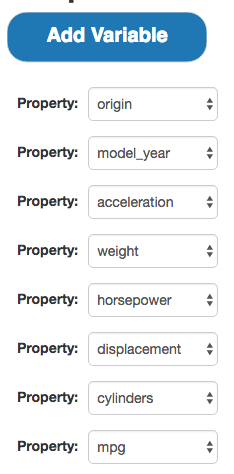
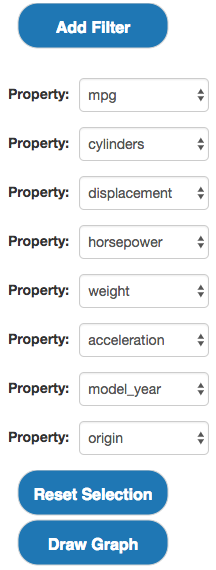
ADD reset selection button to Correolgram JS template

diff --git a/Correlogram/D3 _Correlogram_template_JS.html b/Correlogram/D3 _Correlogram_template_JS.html
@@ -98,16 +98,26 @@ body, html { overflow: scroll; height: 100% }
           	<h2>Introduction</h2>
           	<p>This section provides a manual for the Correlogram visualization. It explains the meaning of the inputs, the correct specification of the input data table and known issues.</p>
           	<h2>Inputs</h2>
-          	<img src="https://github.com/pcooman/d3_tools/blob/master/Correlogram/Correlogram_Toolbar_empty.png?raw=true">
-    		 <ul>
+           <img src="https://github.com/pcooman/d3_tools/blob/master/Correlogram/Correlogram_MEtatoolbar_empty_JS.png?raw=true">
+            <ul>
+              <li><b>Source Database:</b> A dropdown menu to select the database or cluster of the table we want ot visualize (e.g., redshift-general). Once you make a secltion here, the <i>Source Schema</i> dropdown menu will be populated with all schemas within the selected database.</li>
+              <li><b>Source Schema:</b> A dropdown menu to select the schema that contains the table to visualize. Again, making a selection here initiates a script to populate the <i>Source Table</i> dropdown menu with all tables within the selected schema.</li>
+              <li><b>Source Table:</b> A dropdown menu to select the name of the table to visualize.</li>
+              <li><b>Get Table:</b> Once the source database, schema and table have been selected, click this button to retrieve the column names of the selected table.</li>
+            </ul>
+           <p>A short time after clicking the <i>Get Table</i> button a second set of buttons should appear:</p>
+          	<img src="https://github.com/pcooman/d3_tools/blob/master/Correlogram/Correlogram_Toolbar_start_JS.png?raw=true">
+            <p>Clicking the 'Add Variable' button will create additional 'Property' menus.</p>    		 
+            <img src="https://github.com/pcooman/d3_tools/blob/master/Correlogram/Correlogram_Toolbar_empty_JS.png?raw=true">
+            <ul>
               <li><b>Add Variable:</b> A button to generate additional Property dropdown forms.</li>
-              <li><b>Property:</b> A dropdown menu to select the variable to include in the plot.</li>
+              <li><b>Property:</b> A drop down menu to select the column of the data set you would like to include in the pairwise correlation calculations.</li>
+              <li><b>Draw Graph:</b> When you have selected the properties for which you want to plot the Correlogram, click this button to retrieve the necessary data and to start drawing the graph.</li>
             </ul>
           	<h2>Data table</h2>
-          	<p>The template calculates the Pearson correlation coefficient for all pairwise combinations of the selected variables. The values in the selected columns need to be numerical. In the following table, each column can be selected and potted, with exception of the last colum <i>car_name</i> because it is a categorical variable:<p>
+          	<p>The template calculates the Pearson correlation coefficient for all pairwise combinations of the selected variables. The values in the selected columns need to be numerical. In the following table, each column can be selected and plotted, with exception of the last colum <i>car_name</i> because it is a categorical variable:<p>
           	<img src="https://github.com/pcooman/d3_tools/blob/master/Correlogram/Correlogram_Table.png?raw=true">
           	<p>The graph will plot a matrix with the column names on the diagonal, the correlation coefficient in the lower left triangle and filled circles in the upper right triangle. The color and size of the circles depends on the correlation coefficient. Negative correlation coefficients are displayed as red circles and positive correlation coefficients are displayed as blue circles. The higher the absolute value of the correlation coefficient, the deeper the color intensity and radius of the circle.</p>
-          	<p>The <i>Add Variable</i> button allows you to gradually build up the correlogram. A variable can be "removed" from the plot by changing that variable to one that is already plotted.</p>
            <h2>Known issues</h2>
           	<p>Move the labels from the diagonal to the left and top of the plot. When many variables need to be plotted, this would prevent the labels from bleeding over into the adjacent cells.</p>
             <bcontent></bcontent>
@@ -116,21 +126,15 @@ body, html { overflow: scroll; height: 100% }
       	<div class="tab-pane" id="c_tab">
             <h1>Example</h1>
           	<h2>Introduction</h2>
-          	<p>Here we show an example of a typical use case and what the resulting plot should look like. In this example we will plot the cars data set. The data can be found either on Platform (schema.table = <i>pcooman.cars</i> on redshift-general) or here: <i>https://archive.ics.uci.edu/ml/datasets/Auto+MPG</i>. Platform does not support outgoing links, so you will need to manually copy and paste the url.</p>
+          	<p>Here we show an example of a typical use case and what the resulting plot should look like. In this example we will plot the Correlogram of the cars data set. The data can be found either on Platform (schema.table = <i>pcooman.cars</i> on redshift-general) or here: <i>https://archive.ics.uci.edu/ml/datasets/Auto+MPG</i>. Platform does not support outgoing links, so you will need to manually copy and paste the url.</p>
             <h2>Data table</h2>
+           <img src="https://github.com/pcooman/d3_tools/blob/master/Correlogram/Correlogram_Metatoolbar_full_JS.png?raw=true">
           	<img src="https://github.com/pcooman/d3_tools/blob/master/Correlogram/Correlogram_Table.png?raw=true">
           	<h2>Sample plot</h2>
-          	<p>We start by clicking the <i>Add Variable</i> button multiple times and filling in the variables we want to include int he plot:</p>
-            <img src="https://github.com/pcooman/d3_tools/blob/master/Correlogram/Correlogram_Toolbar_allbutone.png?raw=true">
-           <p>This should generate a correlogram that looks like this:</p>
-            <img src="https://github.com/pcooman/d3_tools/blob/master/Correlogram/Correlogram_allbutone.png?raw=true">
-           <p>Clicking the <i>Add Variable</i> again, creates a new dropdown menu at the top of the list:</p>
-            <img src="https://github.com/pcooman/d3_tools/blob/master/Correlogram/Correlgram_Toolbar_lastempty.png?raw=true">
-           <p>Creating this new dropdown menu, but leaving it empty for now, will create placeholder cells in the correlogram:</p>
-            <img src="https://github.com/pcooman/d3_tools/blob/master/Correlogram/Correlogram_lastempty.png?raw=true">
-           <p>Once we choose a variable from the newly created dropdown menu, the empty correlogram cells will be filled in:</p>
-            <img src="https://github.com/pcooman/d3_tools/blob/master/Correlogram/Correlogram_Toolbar_full.png?raw=true">
-            <img src="https://github.com/pcooman/d3_tools/blob/master/Correlogram/Correlogram_full.png?raw=true">
+          	<p>We start by clicking the <i>Add Variable</i> button 8 times and filling in the variables we want to include in the plot:</p>
+            <img src="https://github.com/pcooman/d3_tools/blob/master/Correlogram/Correlogram_Toolbar_full_JS.png?raw=true">
+           <p>Clicking the 'Draw Graph' button should generate a correlogram that looks like this:</p>
+            <img src="https://github.com/pcooman/d3_tools/blob/master/Correlogram/Correlogram_Example_JS.png?raw=true">
           	 <ccontent></ccontent>
         </div>
       
@@ -501,11 +505,14 @@ var createMetaToolbar = function(client, def_vis_width, def_vis_height, params) 
         d3.selectAll("label.label_toolbar").remove()
         for (var i=0; i<params['count']+1; i++) {d3.select("#x-var"+i).html("");}
         for (var i=0; i<params['count']+1; i++) {d3.select("#x-var"+i).remove();}
+        for (var i=0; i<params['count']+1; i++) {d3.select("#toolbar"+i).remove();}
         for (var i=0; i<params['count']+1; i++) {delete params['xaxis'+i];}
 
         d3.selectAll(".toolbar_rect").remove()
         d3.selectAll(".toolbar_text").remove()
         d3.selectAll(".toolbar_label").remove()
+        d3.select("#first_toolbar").html("") 
+        d3.select("#last_toolbar").html("")  
 
         d3.selectAll('.cor_text').remove()
         d3.selectAll('.cor').remove()
@@ -527,11 +534,15 @@ var createMetaToolbar = function(client, def_vis_width, def_vis_height, params) 
         d3.selectAll("label.label_toolbar").remove()
         for (var i=0; i<params['count']+1; i++) {d3.select("#x-var"+i).html("");}
         for (var i=0; i<params['count']+1; i++) {d3.select("#x-var"+i).remove();}
+        for (var i=0; i<params['count']+1; i++) {d3.select("#toolbar"+i).remove();}
         for (var i=0; i<params['count']+1; i++) {delete params['xaxis'+i];}
+
 
         d3.selectAll(".toolbar_rect").remove()
         d3.selectAll(".toolbar_text").remove()
         d3.selectAll(".toolbar_label").remove()
+        d3.select("#first_toolbar").html("") 
+        d3.select("#last_toolbar").html("")               
 
         d3.selectAll('.cor_text').remove()
         d3.selectAll('.cor').remove()
@@ -610,8 +621,6 @@ var createToolbar = function(client,def_vis_width,def_vis_height,params) {
                                       // handle change to select, wrap in anonymous function so the pickers dont clash
                                       $("#x-var"+params['count']).change(function(dim) {
                                         return function() {
-                                          d3.selectAll('.cor_text').remove()
-                                          d3.selectAll('.cor').remove()
                                           var newVar = $("#x-var"+dim.slice(5)).val();
                                           params[dim] = newVar;
                                           params['xaxislabel'+dim.slice(5)] = newVar;
@@ -645,8 +654,6 @@ var createToolbar = function(client,def_vis_width,def_vis_height,params) {
                                       // handle change to select, wrap in anonymous function so the pickers dont clash
                                       $("#x-var"+params['count']).change(function(dim) {
                                         return function() {
-                                          d3.selectAll('.cor_text').remove()
-                                          d3.selectAll('.cor').remove()
                                           var newVar = $("#x-var"+dim.slice(5)).val();
                                           params[dim] = newVar;
                                           params['xaxislabel'+dim.slice(5)] = newVar;
@@ -657,8 +664,8 @@ var createToolbar = function(client,def_vis_width,def_vis_height,params) {
 
                                     var svg = d3.select("#last_toolbar").append("svg")
                                       .attr("width", def_vis_width)
-                                      .attr("height", 60);
-                                
+                                      .attr("height", 120);
+
                                      svg.append('rect')
                                       .attr("transform","translate(0,0)")
                                    	 .attr('class','form-group toolbar_rect')
@@ -666,6 +673,46 @@ var createToolbar = function(client,def_vis_width,def_vis_height,params) {
                                       .attr('height', 45)
                                       .attr('x', 20)
                                       .attr('y', 0)
+                                      .attr('rx', 20)
+                                      .attr('ry', 20)
+                                      .style('fill', 'rgb(31,119,180)')
+                                      .on("click",  function()  {
+                                        d3.selectAll('.toolbar_label').remove()
+                                        for (var i=0; i<params['count']+1; i++) {d3.select("#x-var"+i).html("");}
+                                        for (var i=0; i<params['count']+1; i++) {d3.select("#x-var"+i).remove();}
+                                        for (var i=0; i<params['count']+1; i++) {d3.select("#toolbar"+i).remove();}
+                                        for (var i=0; i<params['count']+1; i++) {delete params['xaxis'+i];}                                                                                
+                                        params['count'] = -1
+
+                                          CivisResult.saveParams(params);
+
+                                        })
+                                  							
+                                    svg.append('text').text('Reset Selection')
+                                      .attr('class', 'toolbar_text')
+                                      .attr('x', 95)
+                                      .attr('y', 30)
+                                      .style('fill', 'white')
+                                      .style("font-weight", "bold")
+                                      .style("font-size", "16px")
+                                      .attr("text-anchor", "middle")
+                                      .on("click", function()  {
+                                        d3.selectAll('.toolbar_label').remove()
+                                        for (var i=0; i<params['count']+1; i++) {d3.select("#x-var"+i).html("");}
+                                        for (var i=0; i<params['count']+1; i++) {d3.select("#x-var"+i).remove();}
+                                        for (var i=0; i<params['count']+1; i++) {d3.select("#toolbar"+i).remove();}
+                                        for (var i=0; i<params['count']+1; i++) {delete params['xaxis'+i];}                                                                                
+                                        params['count'] = -1
+
+                                        })
+                                
+                                     svg.append('rect')
+                                      .attr("transform","translate(0,0)")
+                                   	 .attr('class','form-group toolbar_rect')
+                                      .attr('width', 150)
+                                      .attr('height', 45)
+                                      .attr('x', 20)
+                                      .attr('y', 50)
                                       .attr('rx', 20)
                                       .attr('ry', 20)
                                       .style('fill', 'rgb(31,119,180)')
@@ -681,7 +728,7 @@ var createToolbar = function(client,def_vis_width,def_vis_height,params) {
                                     svg.append('text').text('Draw Graph')
                                       .attr('class', 'toolbar_text')
                                       .attr('x', 95)
-                                      .attr('y', 30)
+                                      .attr('y', 80)
                                       .style('fill', 'white')
                                       .style("font-weight", "bold")
                                       .style("font-size", "16px")
